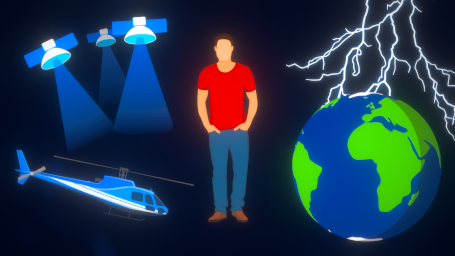
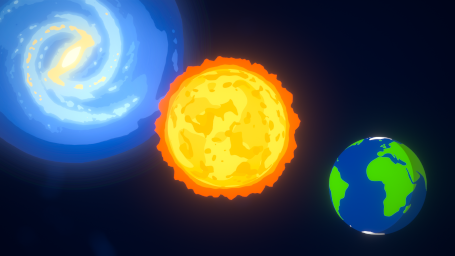
Update Latest Video

diff --git a/general-data/bt-videos.js b/general-data/bt-videos.js
@@ -2384,7 +2384,7 @@ const videos = [
 		],
 	},
 	{
-		title:"Just Some Cool Facts",
+		title:"Really Cool Facts You Don't Need To Know",
 		id:420,
 		type:"long-form",
 		subtitles:"<p>Want to know something absolutely mind-blowing? There are more possible QR codes than particles in the observable universe. You might have looked at a QR code before and wondered if we'd ever run out, but if everyone generated 1 googol googol googol googol googol googol googol googol googol googol  unique QR codes every femtosecond, it would take 10^6078 years to run out of QR codes.<br>Maybe let's try a different visualization method. The internet is huge, right? Wrong, at least in relation to the number of possible QR codes. The total data stored around the world is currently somewhere around 200 billion terabytes, or approximately 10^23 bytes which, compared to 10^7111, seems small but that's enough for every person on Earth to have 24 terrabytes of data all to themselves. Basically, there's just no way to visualize a number as massive as 10^7111 but I think it's safe to say that we will never run out of QR codes.<br>Boom, your mind has been blown...now you have no braincells-</p><p>Anyway you know ladybugs? They're one of the most popular insects, but it's not so simple. There are more than 6,000 known and described species of ladybugs, or coccinellidae. For comparison, there are only around 6,640 species of mammals. Many ladybugs don't even look like what most people imagine ladybugs to look like. Some are yellow, some don't have spots, some are just entirely black, some are black with red spots, some only have two spots, and much, much more. And even worse, they're not actually even bugs, which is why they're often referred to as lady beetles.</p><p>The average lightning bolt contains 250KWh of power. Enough to power an average US home for over a week . But they can contain up to 2000KWh of power. Enough to power a home for over 2 months . The issue is trying to charge a battery at the speed of literal lightning.<br>But lightning hides another crazy statistic. Lightning is so powerful that it heats the air to nearly 30,000 degrees Celsius. That's 5 times hotter than the surface of the Sun . I mean we are talking about something that heats the air so quickly that it generates a sonic boom so maybe that's not so crazy.</p><p>A better way of harnessing free power is the Sun. The amount of sunlight which hits Earth's land surface  could power 1,185 other Earths or rather human civilizations  since other things in nature also require sunlight. And, of course, that's also not taking into consideration that solar panels aren't 100% efficient and whatever.</p><p>Anyway, you have a lot of cells, 30 trillion cells to be exactly approximate. But what's amazing is that those 30 trillion cells in your body is more than the number of stars in the Milky Way  and more than the number of trees on Earth  and more than the number of galaxies in the entire observable universe ! That's crazy.</p><p>But also crazy, or maybe just really confusing, is that you're currently living in your future. At the same time, what you're looking at right now is in the past. In fact, the present doesn't even really exist. Say the present is right now. Well, in the amount of time it took for me to say \"now\", you to hear the sound waves from me saying \"now\", and your brain to process those sound waves into the word \"now\" is a long time. But you're living in your future because you had a past, and because there is a past there is a future. But what your seeing is...well everything is in both the future and the past. Every action you make is in the past, everything you see is in the past, every thought you make is in the past, but, compared to your past and simply because there was and still is a past, it's all happening in the future. How everything is happening in the past and the future simultaniously but the present doesn't exist...I don't know.</p><p>But speaking of the past, if you're older than 86, you existed before helicopters.<br>If you're older than 80, you existed before computers.<br>If you're older than 66, you existed before Hawaii was a US state.<br>If you're older than 57, you existed before printers.<br>If you're older than 50, you existed before digital cameras.<br>If you're older than 45, you existed before laptops.<br>If you're older than 43, you existed before the internet.<br>If you're older than 40, you existed before the Titanic wreck was found.<br>If you're older than 33, you existed before GPS.<br>If you're older than 25, you existed before USB flashdrives.<br>If you're older than 22, you existed before 4K video cameras.<br>If you're older than 21, you existed before YouTube.<br>If you're older than 18, you existed before iPhones.<br>If you're older than 13, you existed before the consumer drone boom.<br>And if you want to see hundreds of other things that have happened in your lifetime, you should check out The World Since You. It's really cool.</p><p>Anyway, the reason you're alive at all is because ice floats. Well, also because of many other reasons, reasons that seem normal and not crazy at all, but if they weren't all designed perfectly, you wouldn't be able to live. There are so many things that have to work just right for you to live. If water wasn't the only liquid which is backwards and expands when frozen instead of shrinking, you wouldn't be alive right now. If friction didn't exist, motion would be catastrophically uncontrollable. If gravity didn't exist you'd just float off into space. If your heart didn't control itself, you'd definitely forget to pump your blood...like for sure...like there's just no way you're gonna remember that-</p><p>Ok moving on, in the age of social media, numbers have lost their true value. We get a few dozen likes on a post and feel like that's a poor amount of likes. But if you change your perspective and realize those few dozen likes are a few dozen people who saw something and enjoyed what they saw enough to put forth effort to hit the like button, that few dozen suddenly feels much larger. Especially if you visualize that amount of people. For example, my worst performing video on my channel (which ironically is my 100 thousand subscriber Q&A) has around 350 likes. Comparing that to my other videos that seems like not very many people. But imagining myself in a crowd of 350 people who apparently like the way I talk and look and and stumble over every word that comes out of my mouth, is really quite insane. And, being unfathomably introverted, is basically my worst nightmare. This is why I can't have nice things-</p><p>Anyway, have you ever been to a hot spring and seen those vibrant colors. That's not necessarily just minerals. As crazy as it sounds, there are tiny, microscopic living organisms which not only survive but thrive in boiling or near boiling water. These are known as thermophiles. The colors come from either the pigments the thermophiles themselves make or from the minerals that they precipitate.</p><p>And, time to blow your mind some more. Everything you do is affecting the environment hundreds of kilometers away almost instantly. A person waving on Earth can be seen all the way from space. That means you affected light which bounced all the way back into space. Everything you do is affecting the trajectory of light, producing sound, or something else which may be so slight that you don't notice it, but it's happening nonetheless and it's affecting the environment all around you.<br>And something which seems simple, such as talking, isn't just talking, it's precisely controlling air (something you can't really even see) hundreds of meters all around you. Which is pretty crazy to think about.</p><p>Hello, fellow procrastinator! Yeah, who's watching who- I'm Daniel Roberts. I run the entire BlenderTimer business all by myself, and it's not just YouTube videos. For nearly a decade, I've set to work creating and distributing thousands of completely free resources that everyone can use. From stock images, music, videos, sound effects, and 3D models, to software, web tools, visualizations, and, of course, educational YouTube videos, I have created a lot of resources that are being used by millions of people all around the world, and, for that, I'm very thankful! But, it wouldn't be possible without all the support from the community, so a huge thank you to all my viewers and especially my members and donors, you are helping make free high-quality resources available for those who can't afford paid resources. Anyway, that's enough social interaction for my lifetime so uh...I'm gonna go crawl back under this rock. Wait that wasn't even social interaction-</p>",